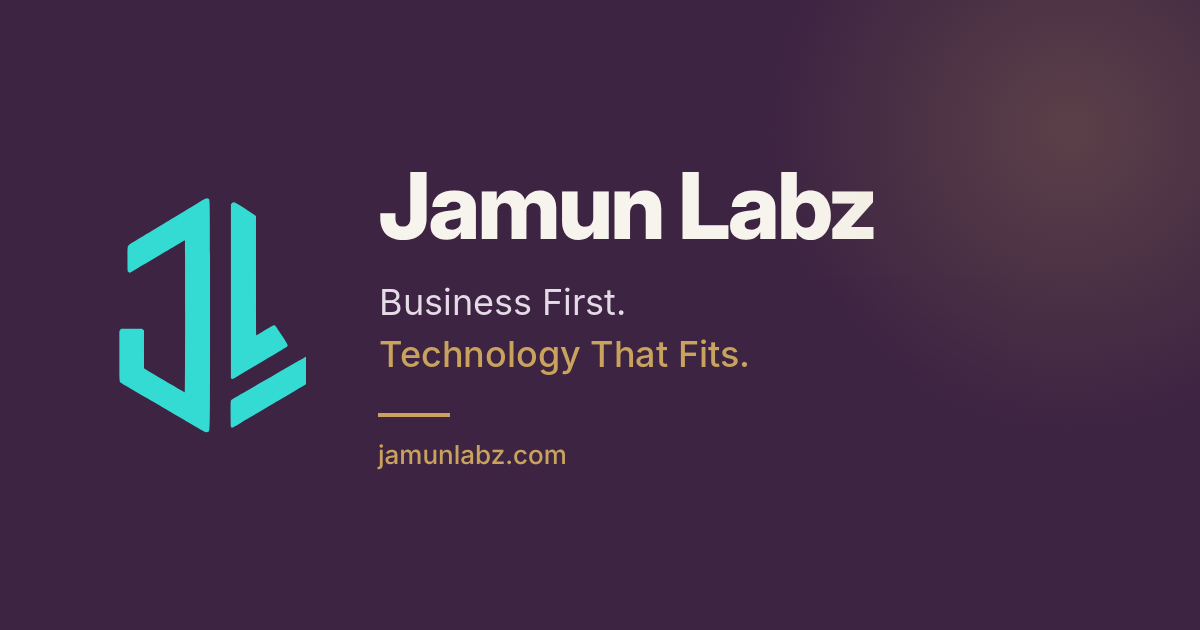
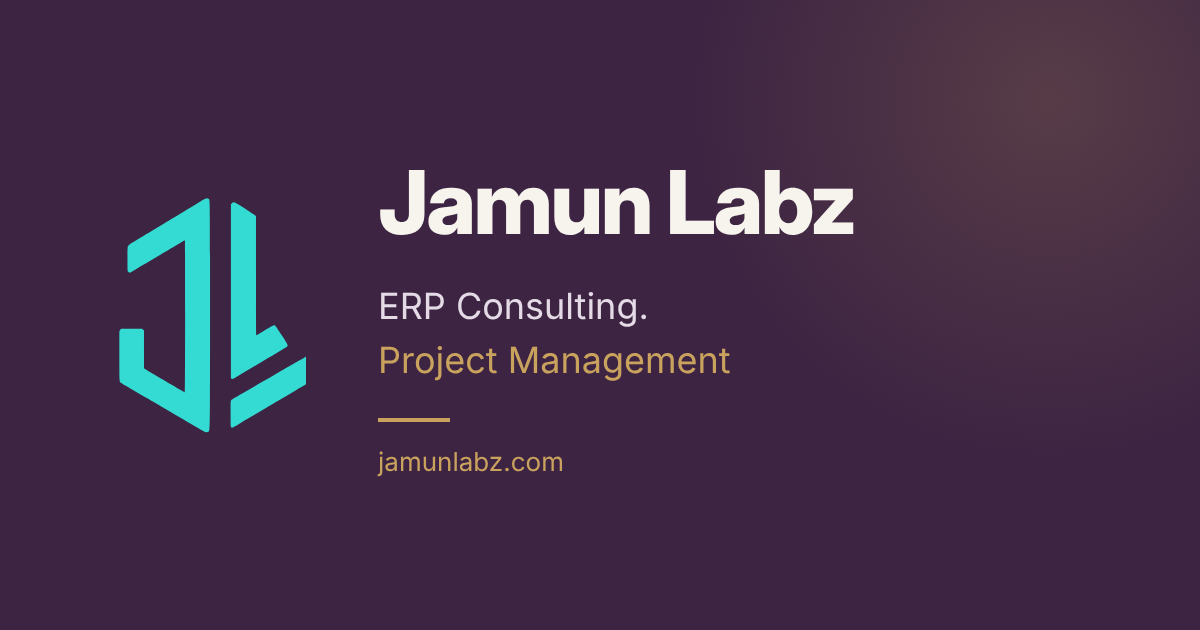
Add files via upload

diff --git a/about.html b/about.html
@@ -3,7 +3,7 @@
 <head>
 <meta charset="UTF-8">
 <meta name="viewport" content="width=device-width, initial-scale=1.0, viewport-fit=cover">
-<title>About Us | Jamun Labz — Business First. Technology That Fits.</title>
+<title>About Us | Jamun Labz — ERP Consulting. Project Management.</title>
 <meta name="description" content="Jamun Labz is a UAE-based boutique consulting firm that puts business understanding before technology. Learn why we exist, what we believe, and how we work.">
 
 <!-- SEO -->
@@ -12,18 +12,18 @@
 <meta name="theme-color" content="#F7F4EE">
 <meta property="og:type" content="website">
 <meta property="og:site_name" content="Jamun Labz">
-<meta property="og:title" content="About Jamun Labz | Business First. Technology That Fits.">
+<meta property="og:title" content="About Jamun Labz | ERP Consulting. Project Management.">
 <meta property="og:description" content="A boutique consulting firm that puts business understanding before technology. Why we exist, what we believe, and how we work.">
 <meta property="og:url" content="https://jamunlabz.com/about">
 <meta property="og:locale" content="en_US">
-<meta property="og:image" content="https://jamunlabz.com/og-image.png?v=2">
+<meta property="og:image" content="https://jamunlabz.com/og-image.png?v=3">
 <meta property="og:image:type" content="image/png">
 <meta property="og:image:width" content="1200">
 <meta property="og:image:height" content="630">
-<meta property="og:image:alt" content="Jamun Labz — Business First. Technology That Fits.">
+<meta property="og:image:alt" content="Jamun Labz — ERP Consulting. Project Management.">
 <meta name="twitter:card" content="summary_large_image">
-<meta name="twitter:image" content="https://jamunlabz.com/og-image.png?v=2">
-<meta name="twitter:title" content="About Jamun Labz | Business First. Technology That Fits.">
+<meta name="twitter:image" content="https://jamunlabz.com/og-image.png?v=3">
+<meta name="twitter:title" content="About Jamun Labz | ERP Consulting. Project Management.">
 <meta name="twitter:description" content="A boutique consulting firm that puts business understanding before technology.">
 
 <link rel="preload" href="fonts/manrope-v20-latin-700.woff2" as="font" type="font/woff2" crossorigin>

diff --git a/index.html b/index.html
@@ -12,18 +12,18 @@
 <meta name="theme-color" content="#F7F4EE">
 <meta property="og:type" content="website">
 <meta property="og:site_name" content="Jamun Labz">
-<meta property="og:title" content="Jamun Labz | Business First. Technology That Fits.">
+<meta property="og:title" content="Jamun Labz | ERP Consulting. Project Management.">
 <meta property="og:description" content="Boutique consulting for ERP and business systems, enterprise development, and process improvement.">
 <meta property="og:url" content="https://jamunlabz.com/">
 <meta property="og:locale" content="en_US">
-<meta property="og:image" content="https://jamunlabz.com/og-image.png?v=2">
+<meta property="og:image" content="https://jamunlabz.com/og-image.png?v=3">
 <meta property="og:image:type" content="image/png">
 <meta property="og:image:width" content="1200">
 <meta property="og:image:height" content="630">
-<meta property="og:image:alt" content="Jamun Labz — Business First. Technology That Fits.">
+<meta property="og:image:alt" content="Jamun Labz — ERP Consulting. Project Management.">
 <meta name="twitter:card" content="summary_large_image">
-<meta name="twitter:image" content="https://jamunlabz.com/og-image.png?v=2">
-<meta name="twitter:title" content="Jamun Labz | Business First. Technology That Fits.">
+<meta name="twitter:image" content="https://jamunlabz.com/og-image.png?v=3">
+<meta name="twitter:title" content="Jamun Labz | ERP Consulting. Project Management.">
 <meta name="twitter:description" content="Boutique consulting for ERP and business systems, enterprise development, and process improvement.">
 
 <link rel="preload" href="fonts/manrope-v20-latin-700.woff2" as="font" type="font/woff2" crossorigin>

diff --git a/services.html b/services.html
@@ -16,13 +16,13 @@
 <meta property="og:description" content="Practical expertise and solutions that fit: ERP consulting, enterprise development, process improvement, technology advisory, project management, and ongoing support.">
 <meta property="og:url" content="https://jamunlabz.com/services">
 <meta property="og:locale" content="en_US">
-<meta property="og:image" content="https://jamunlabz.com/og-image.png?v=2">
+<meta property="og:image" content="https://jamunlabz.com/og-image.png?v=3">
 <meta property="og:image:type" content="image/png">
 <meta property="og:image:width" content="1200">
 <meta property="og:image:height" content="630">
-<meta property="og:image:alt" content="Jamun Labz — Business First. Technology That Fits.">
+<meta property="og:image:alt" content="Jamun Labz — ERP Consulting. Project Management.">
 <meta name="twitter:card" content="summary_large_image">
-<meta name="twitter:image" content="https://jamunlabz.com/og-image.png?v=2">
+<meta name="twitter:image" content="https://jamunlabz.com/og-image.png?v=3">
 <meta name="twitter:title" content="Our Services | Jamun Labz">
 <meta name="twitter:description" content="Practical expertise and solutions that fit: ERP consulting, enterprise development, process improvement, technology advisory, project management, and ongoing support.">
 

diff --git a/contact.html b/contact.html
@@ -16,13 +16,13 @@
 <meta property="og:description" content="Tell us about your business challenge, ERP system or technology decision. A real person reads every message.">
 <meta property="og:url" content="https://jamunlabz.com/contact">
 <meta property="og:locale" content="en_US">
-<meta property="og:image" content="https://jamunlabz.com/og-image.png?v=2">
+<meta property="og:image" content="https://jamunlabz.com/og-image.png?v=3">
 <meta property="og:image:type" content="image/png">
 <meta property="og:image:width" content="1200">
 <meta property="og:image:height" content="630">
-<meta property="og:image:alt" content="Jamun Labz — Business First. Technology That Fits.">
+<meta property="og:image:alt" content="Jamun Labz — ERP Consulting. Project Management.">
 <meta name="twitter:card" content="summary_large_image">
-<meta name="twitter:image" content="https://jamunlabz.com/og-image.png?v=2">
+<meta name="twitter:image" content="https://jamunlabz.com/og-image.png?v=3">
 <meta name="twitter:title" content="Contact Jamun Labz | Let's Talk Business">
 <meta name="twitter:description" content="Tell us about your business challenge, ERP system or technology decision. A real person reads every message.">
 

diff --git a/privacy.html b/privacy.html
@@ -16,13 +16,13 @@
 <meta property="og:description" content="How Jamun Labz FZC collects, uses, shares, and protects personal information.">
 <meta property="og:url" content="https://jamunlabz.com/privacy">
 <meta property="og:locale" content="en_US">
-<meta property="og:image" content="https://jamunlabz.com/og-image.png?v=2">
+<meta property="og:image" content="https://jamunlabz.com/og-image.png?v=3">
 <meta property="og:image:type" content="image/png">
 <meta property="og:image:width" content="1200">
 <meta property="og:image:height" content="630">
-<meta property="og:image:alt" content="Jamun Labz — Business First. Technology That Fits.">
+<meta property="og:image:alt" content="Jamun Labz — ERP Consulting. Project Management.">
 <meta name="twitter:card" content="summary_large_image">
-<meta name="twitter:image" content="https://jamunlabz.com/og-image.png?v=2">
+<meta name="twitter:image" content="https://jamunlabz.com/og-image.png?v=3">
 <meta name="twitter:title" content="Privacy Policy | Jamun Labz">
 <meta name="twitter:description" content="How Jamun Labz FZC collects, uses, shares, and protects personal information.">
 

diff --git a/terms.html b/terms.html
@@ -16,13 +16,13 @@
 <meta property="og:description" content="The terms that govern your use of the Jamun Labz website.">
 <meta property="og:url" content="https://jamunlabz.com/terms">
 <meta property="og:locale" content="en_US">
-<meta property="og:image" content="https://jamunlabz.com/og-image.png?v=2">
+<meta property="og:image" content="https://jamunlabz.com/og-image.png?v=3">
 <meta property="og:image:type" content="image/png">
 <meta property="og:image:width" content="1200">
 <meta property="og:image:height" content="630">
-<meta property="og:image:alt" content="Jamun Labz — Business First. Technology That Fits.">
+<meta property="og:image:alt" content="Jamun Labz — ERP Consulting. Project Management.">
 <meta name="twitter:card" content="summary_large_image">
-<meta name="twitter:image" content="https://jamunlabz.com/og-image.png?v=2">
+<meta name="twitter:image" content="https://jamunlabz.com/og-image.png?v=3">
 <meta name="twitter:title" content="Terms of Use | Jamun Labz">
 <meta name="twitter:description" content="The terms that govern your use of the Jamun Labz website.">
 
